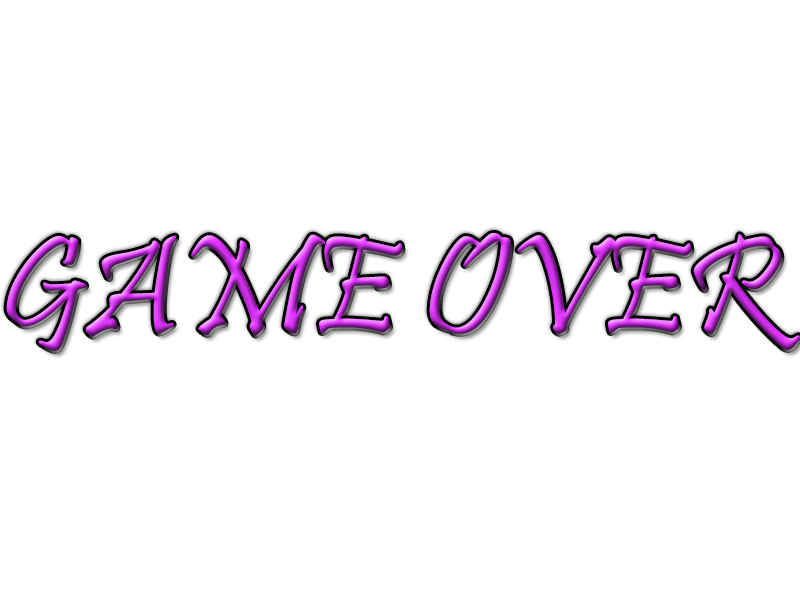
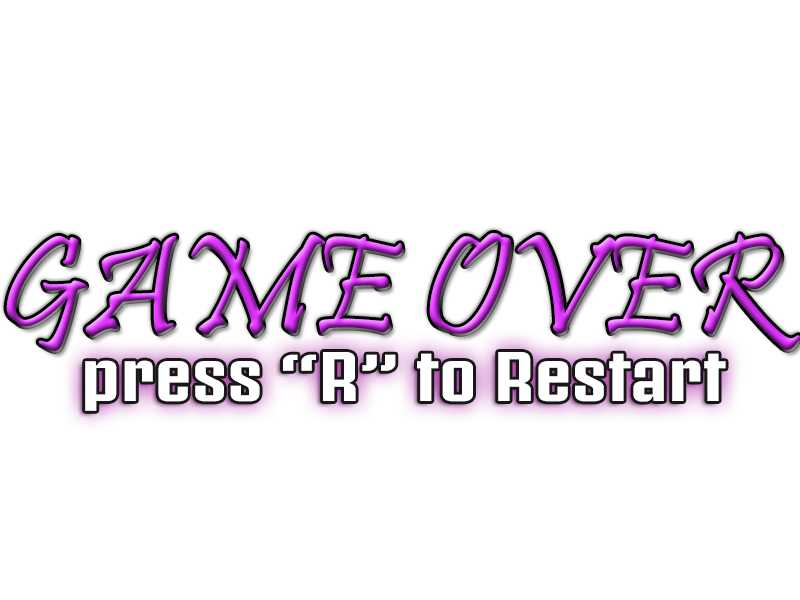
fix score and restart

Changed region(s): [[0.0625, 0.54, 0.9375, 0.72]]

diff --git a/vs/projectakhir/Demo.cpp b/vs/projectakhir/Demo.cpp
@@ -14,10 +14,13 @@ Demo::~Demo()
 
 void Demo::Init()
 {
+	
+	InitText(6);
+	this->program = BuildShader("shader.vert", "shader.frag");
+	this->program3 = BuildShader("shader.vert", "shader.frag");
 	isGameOver = false;
 
-	InitText(8);
-	this->program[8] = BuildShader("shader.vert", "shader.frag");
+	
 	
 	
 	Instantiate(0,0,0, "parralax.vert", "parralax.frag", "seamless.png", 1.0f, 1.0f);
@@ -30,13 +33,15 @@ void Demo::Init()
 	xVelocity[2] = 5;
 	xVelocity[3] = 4;
 	xVelocity[4] = 3;	  
-
+	
 	InputMap();
 }
 
 
-void Demo::GameOver() {
-	
+void Demo::ShowText() {
+	int a = score/1000;
+	std::string scoreText = std::to_string(a);
+	RenderText(6, "Score : " + scoreText, 10, 20, 1.0f, vec3(1, 1, 1));
 	//RenderText(8, "Poin", 400, 800, 10.0f, vec3(1.0f / 255.0f, 1.0f / 255.0f, 1.0f / 255.0f));
 //	Instantiate(1100, 400, 10, "crateSprite.vert", "crateSprite.frag", "game over.jpg", 1.0f, 1.0f);
 	//DrawSprite(10);
@@ -48,14 +53,14 @@ void Demo::RenderText(int index,string text, GLfloat x, GLfloat y, GLfloat scale
 	glEnable(GL_BLEND);
 	glBlendFunc(GL_SRC_ALPHA, GL_ONE_MINUS_SRC_ALPHA);
 
-	UseShader(this->program[index]);
+	UseShader(this->program3);
 
-	glUniform3f(glGetUniformLocation(this->program[index], "ourColor"), color.x, color.y, color.z);
-	glUniform1i(glGetUniformLocation(this->program[index], "text"), 1);
+	glUniform3f(glGetUniformLocation(this->program3, "ourColor"), color.x, color.y, color.z);
+	glUniform1i(glGetUniformLocation(this->program3, "text"), 1);
 	glActiveTexture(GL_TEXTURE0);
-	glUniform1i(glGetUniformLocation(this->program[index], "ourTexture"), 0);
+	glUniform1i(glGetUniformLocation(this->program3, "ourTexture"), 0);
 	mat4 model;
-	glUniformMatrix4fv(glGetUniformLocation(this->program[index], "model"), 1, GL_FALSE, value_ptr(model));
+	glUniformMatrix4fv(glGetUniformLocation(this->program3, "model"), 1, GL_FALSE, value_ptr(model));
 	glBindVertexArray(VAO[index]);
 
 	// Iterate through all characters
@@ -90,16 +95,23 @@ void Demo::RenderText(int index,string text, GLfloat x, GLfloat y, GLfloat scale
 	glBindVertexArray(0);
 	glBindTexture(GL_TEXTURE_2D, 0);
 	glDisable(GL_BLEND);
+	mat4 projection;
+	projection = ortho(0.0f, static_cast<GLfloat>(GetScreenWidth()), static_cast<GLfloat>(GetScreenHeight()), 0.0f, -1.0f, 1.0f);
+	glUniformMatrix4fv(glGetUniformLocation(this->program3, "projection"), 1, GL_FALSE, value_ptr(projection));
+
 }
 void Demo::InitText(int index) {
 	// Init Freetype
 	FT_Library ft;
 	if (FT_Init_FreeType(&ft)) {
-		cout<<("ERROR::FREETYPE: Could not init FreeType Library")<<endl;
+		cout << "LIBRARY NOT FOUNTD" << endl;
+		//Err("ERROR::FREETYPE: Could not init FreeType Library");
 	}
 	FT_Face face;
 	if (FT_New_Face(ft, FONTNAME, 0, &face)) {
-		cout<<("ERROR::FREETYPE: Failed to load font")<<endl;
+		cout << "FONT NOT FOUND" << endl;
+
+		//Err("ERROR::FREETYPE: Failed to load font");
 	}
 
 	FT_Set_Pixel_Sizes(face, 0, FONTSIZE);
@@ -138,7 +150,6 @@ void Demo::InitText(int index) {
 			texture,
 			ivec2(face->glyph->bitmap.width, face->glyph->bitmap.rows),
 			ivec2(face->glyph->bitmap_left, face->glyph->bitmap_top),
-			//static_cast<GLuint>(face->glyph->advance.x)
 			face->glyph->advance.x
 		};
 		Characters.insert(pair<GLchar, Character>(c, character));
@@ -166,9 +177,16 @@ void Demo::Update(float deltaTime)
 		SDL_Quit();
 		exit(0);
 	}
-	score += deltaTime;
+	if (IsKeyDown("Restart") && isGameOver) {
+		Init();
+	}
+	if (!isGameOver) {
+		score += deltaTime;
+	}
+	
 	
 	UpdateBackground(deltaTime);
+	if(!isGameOver)
 	ControlPlayerSprite(deltaTime);
 	UpdateObstacle(deltaTime, 2, true);
 	UpdateObstacle(deltaTime, 3, true);
@@ -190,29 +208,30 @@ void Demo::Render()
 
 	//Clear the color and depth buffer
 	glClear(GL_COLOR_BUFFER_BIT | GL_DEPTH_BUFFER_BIT);
-
+	mat4 projection;
+	projection = ortho(0.0f, static_cast<GLfloat>(GetScreenWidth()), static_cast<GLfloat>(GetScreenHeight()), 0.0f, -1.0f, 1.0f);
+	glUniformMatrix4fv(glGetUniformLocation(this->program3, "projection"), 1, GL_FALSE, value_ptr(projection));
 	//Set the background color
 	glClearColor(0.1f, 0.1f, 0.1f, 1.0f);
-	mat4 projection;
-
-	//RenderText(8, "GAME OVER", 0, 0, 10, vec3(0, 0, 0));
-	
-	//DrawSprite(0);
+	//mat4 projection;
+	DrawSprite(0);
 	DrawSprite(1);
 	DrawSprite(2);
 	DrawSprite(3);
 	DrawSprite(4);
-	RenderText(8, "./Button and Text Renderer Demo", 10, 10, 1.0f, vec3(244.0f / 255.0f, 12.0f / 255.0f, 116.0f / 255.0f));
-	GameOver();
+	ShowText();
+
+	//GameOver();
 	if (isGameOver) {
 		DrawSprite(5);
+		ShowText();
 	}
 }
 
 void Demo::UpdateBackground(float deltaTime) {
 	bgControl++;
-	UseShader(this->program[0]);
-	glUniform1f(glGetUniformLocation(this->program[0], "x"), bgControl);
+	UseShader(this->program);
+	glUniform1f(glGetUniformLocation(this->program, "x"), bgControl);
 }
 
 void Demo::UpdateObstacle(float deltaTime, int i, bool randomized) {
@@ -283,17 +302,17 @@ void Demo::DrawSprite(int i) {
 	// Bind Textures using texture units
 	glActiveTexture(GL_TEXTURE0);
 	glBindTexture(GL_TEXTURE_2D, texture[i]);
-	UseShader(this->program[i]);
-	glUniform1i(glGetUniformLocation(this->program[i], "ourTexture"), 0);
+	UseShader(this->program);
+	glUniform1i(glGetUniformLocation(this->program, "ourTexture"), 0);
 
 	// set flip
-	glUniform1i(glGetUniformLocation(this->program[i], "flip"), flip);
+	glUniform1i(glGetUniformLocation(this->program, "flip"), flip);
 	mat4 model;
 	// Translate sprite along x-axis
 	model = translate(model, vec3(xpos[i], ypos[i], 0.0f));
 	// Scale sprite 
 	model = scale(model, vec3(frame_width[i], frame_height[i], 1));
-	glUniformMatrix4fv(glGetUniformLocation(this->program[i], "model"), 1, GL_FALSE, value_ptr(model));
+	glUniformMatrix4fv(glGetUniformLocation(this->program, "model"), 1, GL_FALSE, value_ptr(model));
 
 	// Draw sprite
 	glBindVertexArray(VAO[i]);
@@ -311,17 +330,17 @@ void Demo::DrawPlayerSprite() {
 	// Bind Textures using texture units
 	glActiveTexture(GL_TEXTURE0);
 	glBindTexture(GL_TEXTURE_2D, texture[0]);
-	UseShader(this->program[0]);
-	glUniform1i(glGetUniformLocation(this->program[0], "ourTexture"), 0);
+	UseShader(this->program);
+	glUniform1i(glGetUniformLocation(this->program, "ourTexture"), 0);
 
 	// set flip
-	glUniform1i(glGetUniformLocation(this->program[0], "flip"), flip);
+	glUniform1i(glGetUniformLocation(this->program, "flip"), flip);
 	mat4 model;
 	// Translate sprite along x-axis
 	model = translate(model, vec3(xpos[0], ypos[0], 0.0f));
 	// Scale sprite 
 	model = scale(model, vec3(frame_width[0], frame_height[0], 1));
-	glUniformMatrix4fv(glGetUniformLocation(this->program[0], "model"), 1, GL_FALSE, value_ptr(model));
+	glUniformMatrix4fv(glGetUniformLocation(this->program, "model"), 1, GL_FALSE, value_ptr(model));
 
 	// Draw sprite
 	glBindVertexArray(VAO[0]);
@@ -334,12 +353,12 @@ void Demo::DrawPlayerSprite() {
 
 void Demo::Instantiate(float x, float y, int i, char* vertex,char* fragment,char* sprite,float frameNumberH, float frameNumberV)
 {
-	this->program[i] = BuildShader(vertex, fragment);
+	this->program = BuildShader(vertex, fragment);
 
 	// Pass n to shader
-	UseShader(this->program[i]);
-	glUniform1f(glGetUniformLocation(this->program[i], "n"), 1.0f / frameNumberH);
-	glUniform1f(glGetUniformLocation(this->program[i], "m"), 1.0f / frameNumberV);
+	UseShader(this->program);
+	glUniform1f(glGetUniformLocation(this->program, "n"), 1.0f / frameNumberH);
+	glUniform1f(glGetUniformLocation(this->program, "m"), 1.0f / frameNumberV);
 
 	// Load and create a texture 
 	glGenTextures(1, &texture[i]);
@@ -400,7 +419,7 @@ void Demo::Instantiate(float x, float y, int i, char* vertex,char* fragment,char
 	// Set orthographic projection
 	mat4 projection;
 	projection = ortho(0.0f, static_cast<GLfloat>(GetScreenWidth()), static_cast<GLfloat>(GetScreenHeight()), 0.0f, -1.0f, 1.0f);
-	glUniformMatrix4fv(glGetUniformLocation(this->program[i], "projection"), 1, GL_FALSE, value_ptr(projection));
+	glUniformMatrix4fv(glGetUniformLocation(this->program, "projection"), 1, GL_FALSE, value_ptr(projection));
 
 	// set sprite position, gravity, velocity
 	xpos[i] = x;
@@ -424,6 +443,7 @@ void Demo::InputMap() {
 	InputMapping("Move Right", SDL_CONTROLLER_BUTTON_DPAD_RIGHT);
 	InputMapping("Move Left", SDL_CONTROLLER_BUTTON_DPAD_LEFT);
 	InputMapping("Jump", SDLK_w);
+	InputMapping("Restart", SDLK_r);
 	InputMapping("Quit", SDLK_ESCAPE);
 }
 

diff --git a/vs/projectakhir/Demo.h b/vs/projectakhir/Demo.h
@@ -6,6 +6,8 @@
 
 #include <SDL/SDL_mixer.h>
 #include <SDL/SDL_thread.h>
+
+
 #include <GLM/glm.hpp>
 #include <GLM/gtc/matrix_transform.hpp>
 #include <GLM/gtc/type_ptr.hpp>
@@ -16,13 +18,15 @@
 
 
 #include "Game.h"
+using namespace glm;
 
 #define NUM_FRAMES 8
 #define FRAME_DUR 80
 #define OBJECTNUMBER 100
 #define FONTSIZE 40
 #define FONTNAME "hongkonghustle.ttf"
-using namespace glm;
+#define NUM_BUTTON 3
+
 
 
 struct Character {
@@ -46,7 +50,8 @@ public:
 	float frame_width[OBJECTNUMBER], frame_height[OBJECTNUMBER], frameNumber[OBJECTNUMBER], frame_width2 = 0, frame_height2 = 0,score=0;
 private:
 	float frame_dur[OBJECTNUMBER], oldxpos[OBJECTNUMBER],oldypos[OBJECTNUMBER], xpos[OBJECTNUMBER], ypos[OBJECTNUMBER], xpos2 = 0, ypos2 = 0, gravity = 0, xVelocity[OBJECTNUMBER], yVelocity[OBJECTNUMBER], yposGround = 0, bgControl = 0;
-	GLuint VBO[OBJECTNUMBER], VAO[OBJECTNUMBER], EBO[OBJECTNUMBER], texture[OBJECTNUMBER], program[OBJECTNUMBER], VBO2, VAO2, EBO2, texture2, program2,program3;
+	GLuint VBO[OBJECTNUMBER], VAO[OBJECTNUMBER], EBO[OBJECTNUMBER], texture[OBJECTNUMBER], program, VBO2, VAO2, EBO2, texture2, program2,program3;
+	
 	bool walk_anim = false, onGround = true;
 	unsigned int frame_idx = 0, flip = 0;
 	void RenderText(int index,string text, GLfloat x, GLfloat y, GLfloat scale, vec3 color);
@@ -62,7 +67,7 @@ private:
 	void ControlPlayerSprite(float deltaTime);
 	void InputMap();
 	void InitText(int index);
-	void GameOver();
+	void ShowText();
 };
 #endif
 

diff --git a/vs/projectakhir/Game.cpp b/vs/projectakhir/Game.cpp
@@ -243,7 +243,7 @@ void Engine::Game::InputMapping(string mappingName, unsigned int keyId)
 }
 
 //Prints out an error message and exits the game
-void Engine::Game::Err(string errorString)
+ void Engine::Game::Err(string errorString)
 {
 	cout << errorString << endl;
 	SDL_Quit();
